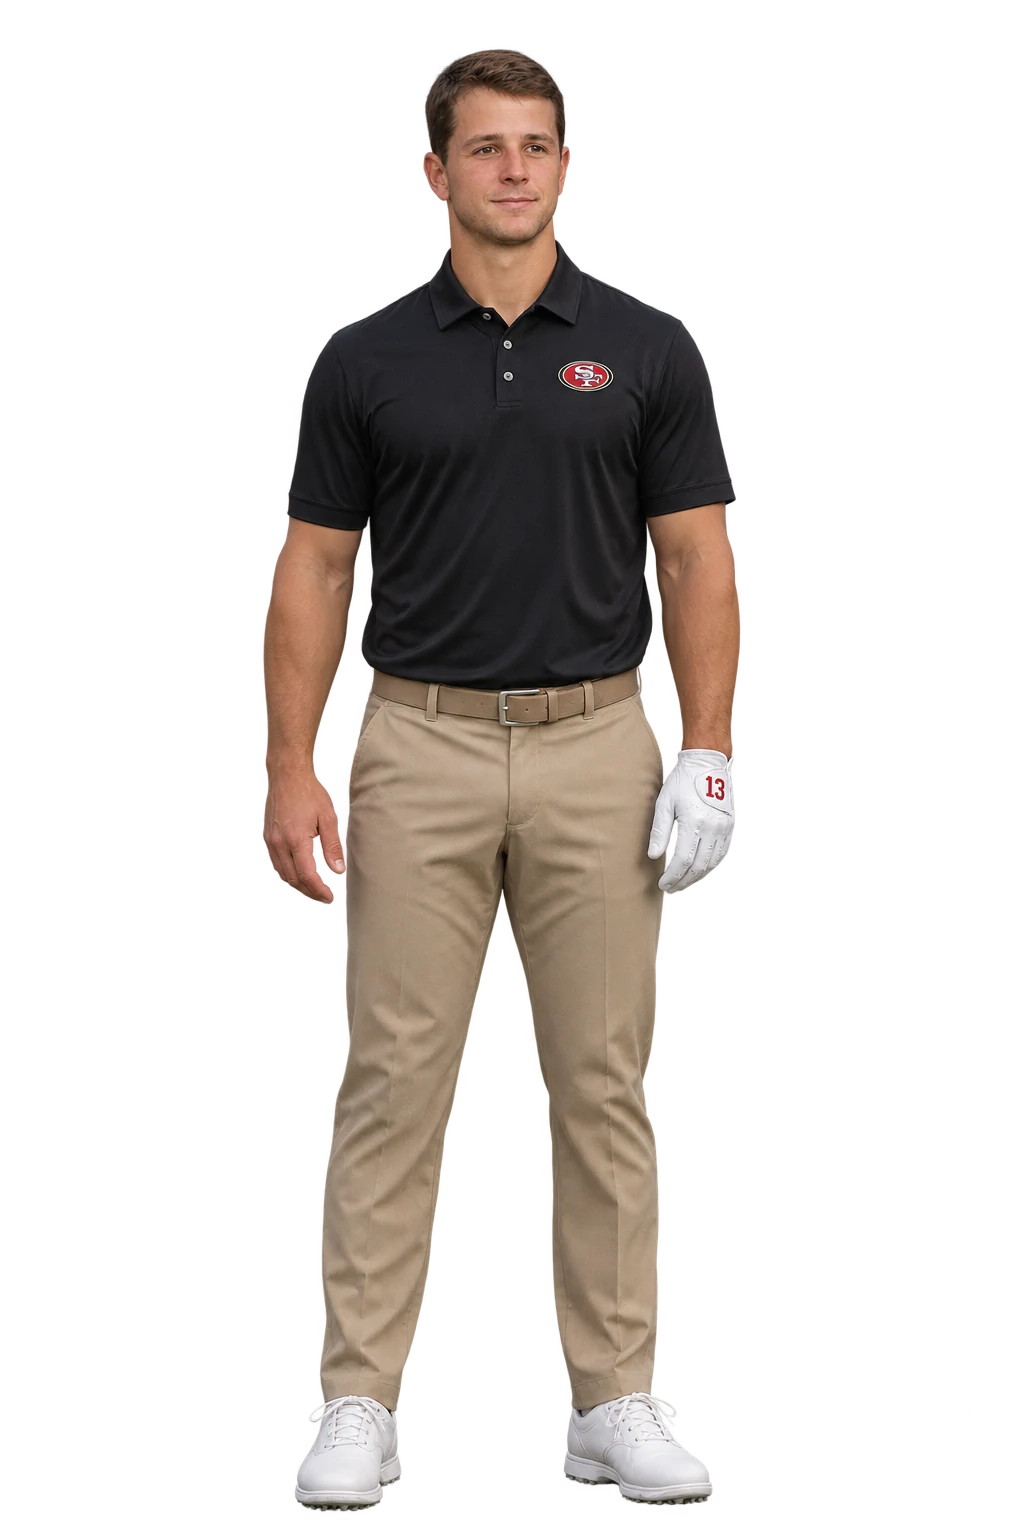
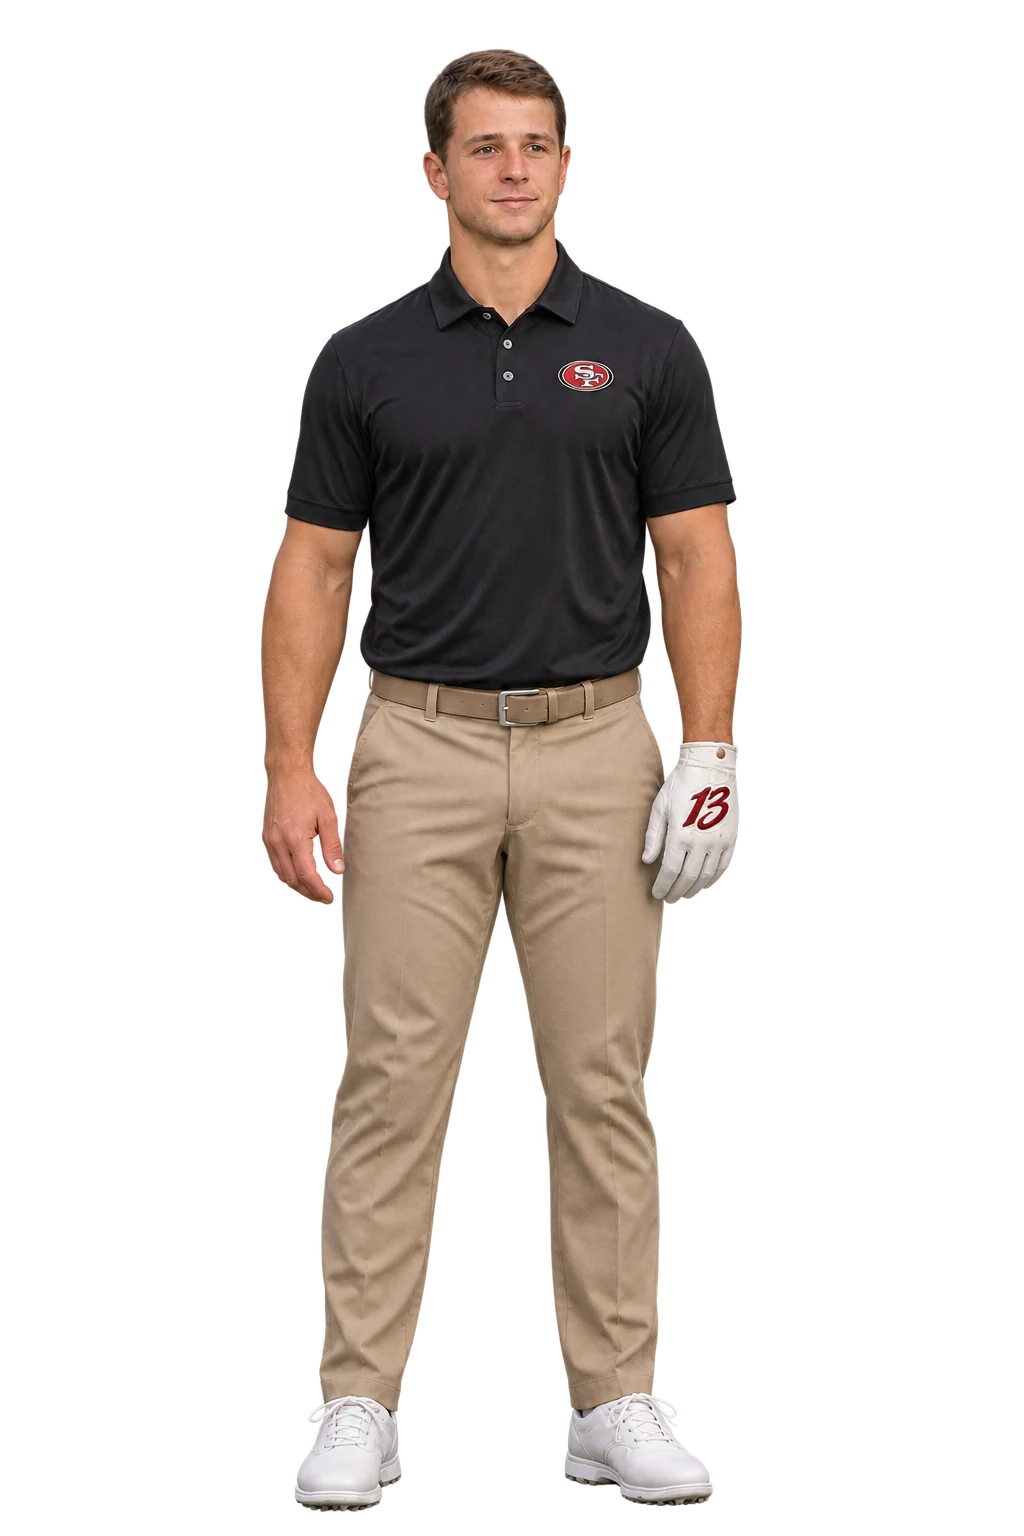
Match golf apparel to Brock Purdy 13 brand mark

diff --git a/work/chasing-birdies.html b/work/chasing-birdies.html
@@ -156,7 +156,7 @@
         <li class="is-done"><span>01</span>Player</li><li class="is-current" aria-current="step"><span>02</span>Outfit</li><li><span>03</span>Course</li>
       </ol>
       <div class="cb-locked-player">
-        <div class="cb-locked-head"><svg class="cb-locked-portrait" viewBox="380 25 260 333" aria-hidden="true"><image href="/images/birdies-purdy-cohesive-black.webp" width="1024" height="1536"/></svg><div><p class="cb-select-label">PLAYER LOCKED IN</p><strong>Brock Purdy</strong><span class="cb-locked-team">San Francisco 49ers</span><small>#13 · Precision</small></div></div>
+        <div class="cb-locked-head"><svg class="cb-locked-portrait" viewBox="380 25 260 333" aria-hidden="true"><image href="/images/birdies-purdy-cohesive-black.webp?v=2" width="1024" height="1536"/></svg><div><p class="cb-select-label">PLAYER LOCKED IN</p><strong>Brock Purdy</strong><span class="cb-locked-team">San Francisco 49ers</span><small>#13 · Precision</small></div></div>
         <div class="cb-locked-overall"><strong>99</strong><span>OVR</span></div>
         <dl class="cb-player-stats">
           <div style="--v:96"><dt>Power</dt><dd>96</dd></div>
@@ -171,9 +171,9 @@
     </div>
     <div class="cb-outfit-demo">
     <div class="cb-character" aria-label="Brock Purdy · Game-day wear">
-      <img class="cb-character-look" data-look="golf" src="/images/birdies-purdy-cohesive-ivory.webp" alt="Brock Purdy wearing an ivory signature 13 golf polo and khaki trousers" width="1024" height="1536" loading="lazy">
+      <img class="cb-character-look" data-look="golf" src="/images/birdies-purdy-cohesive-ivory.webp?v=2" alt="Brock Purdy wearing an ivory signature 13 golf polo and khaki trousers" width="1024" height="1536" loading="lazy">
       <img class="cb-character-look is-visible" data-look="game" src="/images/birdies-purdy-cohesive-game-day.webp" alt="Brock Purdy wearing his red number 13 football uniform" width="1024" height="1536" loading="lazy">
-      <img class="cb-character-look" data-look="black-glove" src="/images/birdies-purdy-cohesive-black.webp" alt="Brock Purdy in a black 49ers polo with a white 13 golf glove" width="1024" height="1536" loading="lazy">
+      <img class="cb-character-look" data-look="black-glove" src="/images/birdies-purdy-cohesive-black.webp?v=2" alt="Brock Purdy in a black 49ers polo with a white 13 golf glove" width="1024" height="1536" loading="lazy">
       <p class="cb-preview-caption"><span>Scroll to see the outfit change</span><strong>Brock Purdy · Game-day wear</strong></p>
     </div>
     <div class="cb-wardrobe"><p class="cb-select-label">MAKE IT YOURS</p><h3>From game day<br> to the green.</h3><p class="cb-wardrobe-copy">Same player. A different kind of drive.</p>

diff --git a/docs/chasing-birdies-wardrobe.md b/docs/chasing-birdies-wardrobe.md
@@ -29,3 +29,12 @@ geometric or facial retouching was applied during export.
 Official identity reference: https://www.49ers.com/team/players-roster/brock-purdy/
 
 These are generated concept assets. Reference photos are not published assets.
+
+## Brand mark correction
+
+The ivory polo and worn golf glove use the supplied Brock Purdy 13 signature
+mark from “Brock Purdy 13 Branding Moodboard.png.” The glove follows the
+existing `images/birdies-glove-13.webp` catalog reference: smooth white leather,
+simple wrist fastening, and the scarlet mark on the back of the hand. These were
+localized edits of the approved cutouts. The football uniform, its athletic
+numbering, and the black polo’s 49ers logo are unchanged.
